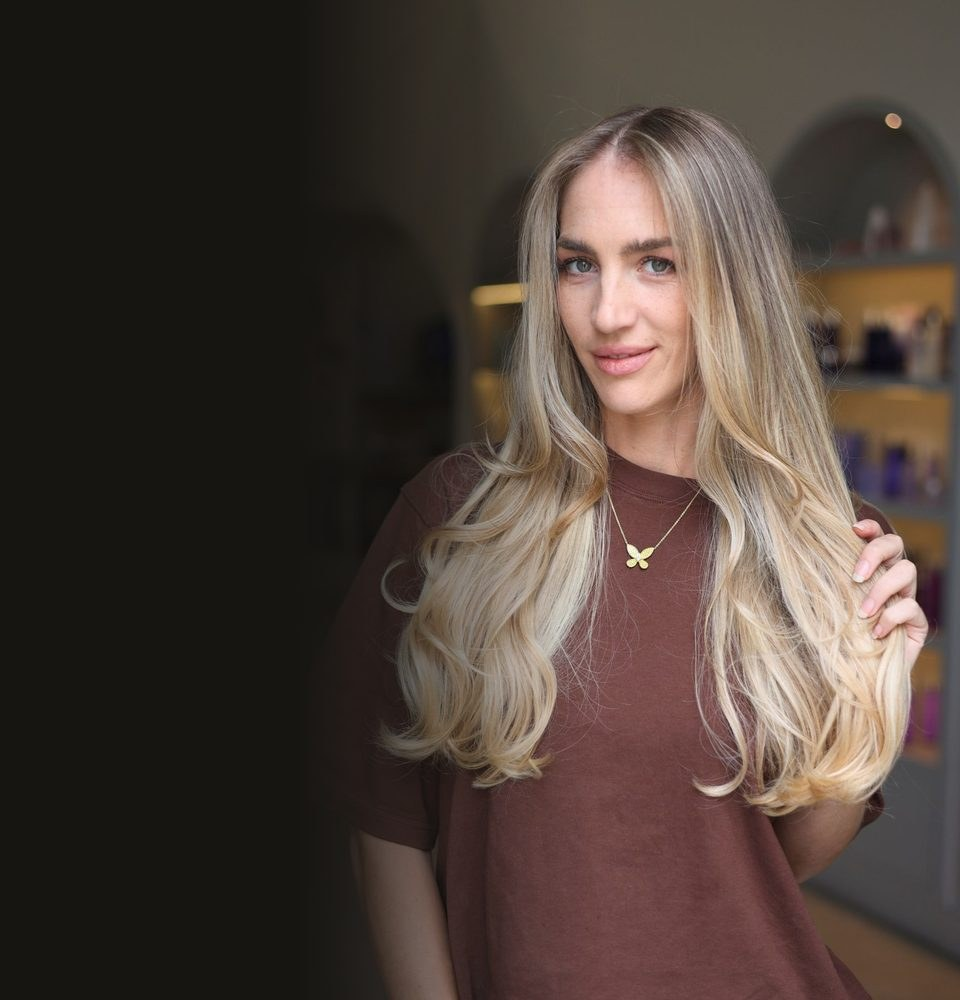
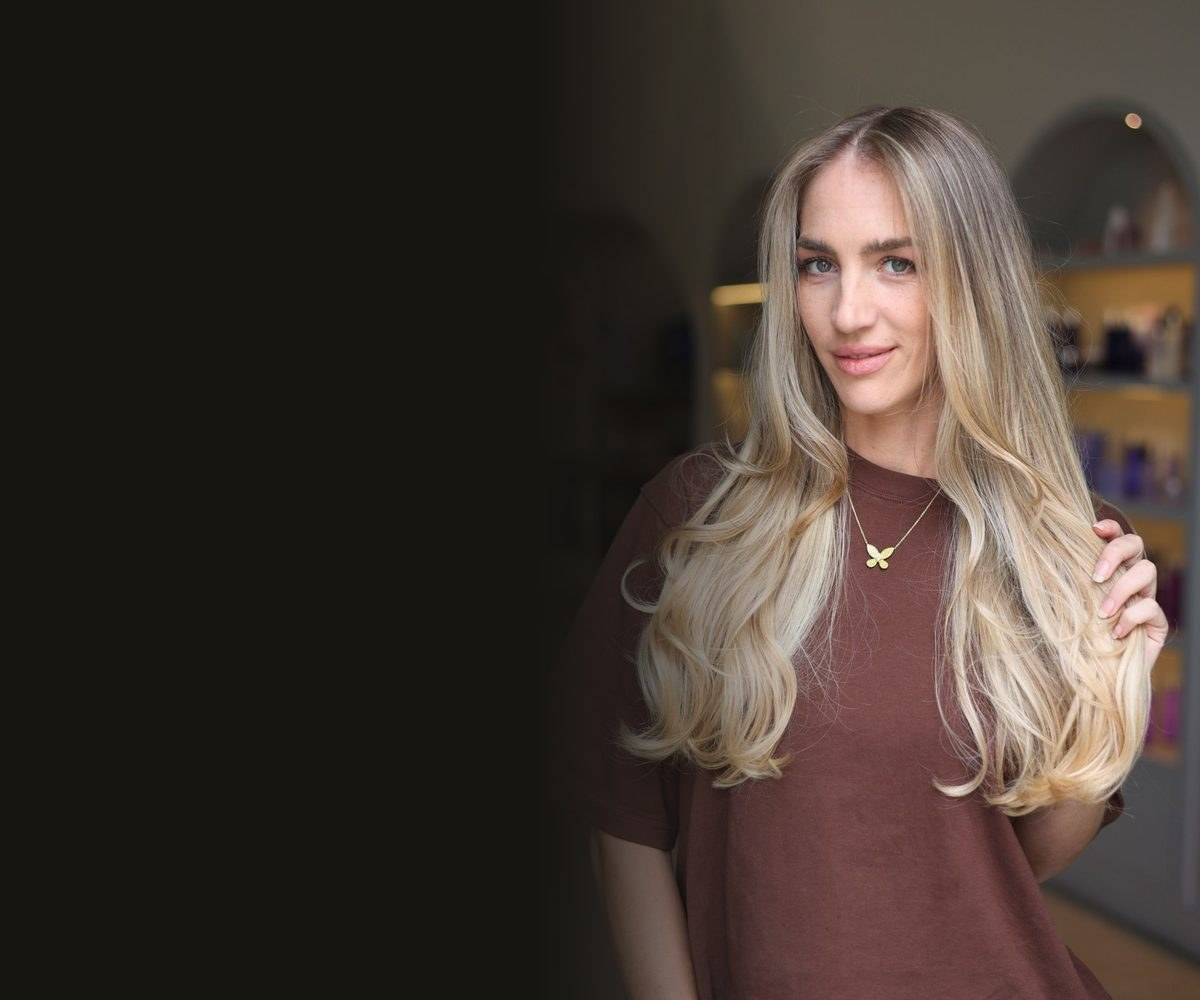
Kate, 16 Oct 2026: Blonde page, dark full-width hero with the portrait to the edge.

diff --git a/campaigns/blonde-standard/css/offers.css b/campaigns/blonde-standard/css/offers.css
@@ -186,6 +186,28 @@
 .terms-q{max-width:760px;margin:22px auto 0}
 .terms-list{margin:0;padding-left:20px;display:grid;gap:12px;font-family:var(--fb);font-size:15px;font-weight:300;line-height:1.6;color:var(--ink-soft)}
 .terms-list b{font-weight:600;color:var(--ink)}
+
+/* dark hero, full width: text left, photo fades into the dark ground on the right */
+.hero-hr.hero-photo-right{background:#161512 !important;padding:0 !important;overflow:hidden}
+.hero-hr.hero-photo-right::before{display:none !important}
+.hero-hr.hero-photo-right .wrap{display:grid;grid-template-columns:minmax(0,1.05fr) minmax(0,.95fr);align-items:stretch;gap:0;min-height:540px}
+.hero-hr.hero-photo-right .inner{margin:0;max-width:560px;text-align:left;padding:72px 0;align-self:center}
+.hero-photo-right .cta-row{justify-content:flex-start}
+.hero-photo-right .hero-photo{margin:0;min-width:0;position:relative}
+.hero-photo-right .hero-photo img{display:block;width:100%;height:100%;min-height:540px;max-height:none;aspect-ratio:auto;object-fit:cover;object-position:70% 12%;border-radius:0;background:#161512;
+  -webkit-mask-image:linear-gradient(to right,transparent 0,#000 18%);mask-image:linear-gradient(to right,transparent 0,#000 18%)}
+@media (min-width:861px){
+  .hero-hr.hero-photo-right{background:#161512 url(../assets/img/hero-blonde-portrait.jpg) right center/auto 100% no-repeat !important}
+  .hero-hr.hero-photo-right .wrap{grid-template-columns:minmax(0,1fr)}
+  .hero-photo-right .hero-photo{display:none}
+}
+@media (max-width:860px){
+  .hero-hr.hero-photo-right .wrap{grid-template-columns:minmax(0,1fr);min-height:0}
+  .hero-photo-right .hero-photo{order:-1}
+  .hero-photo-right .hero-photo img{height:340px;min-height:0;object-position:45% 8%;
+    -webkit-mask-image:linear-gradient(to bottom,#000 55%,transparent 100%);mask-image:linear-gradient(to bottom,#000 55%,transparent 100%)}
+  .hero-hr.hero-photo-right .inner{padding:8px 0 44px;max-width:none}
+}
 /* plan rows carry a small photo on the left */
 #o-plans .obody{max-width:980px}
 .ogroup .orows .door--plan{grid-template-columns:220px minmax(0,1fr) auto;column-gap:32px;padding:26px 0;grid-template-rows:auto auto auto 1fr}

diff --git a/campaigns/blonde-standard/index.html b/campaigns/blonde-standard/index.html
@@ -19,7 +19,7 @@
 <link rel="stylesheet" href="css/fonts.css">
 <link rel="stylesheet" href="css/voucher-base.css">
 <link rel="stylesheet" href="css/blonde-standard.css">
-<link rel="stylesheet" href="css/offers.css?v=12">
+<link rel="stylesheet" href="css/offers.css?v=15">
 <style>
 .draft-bar{background:#1c1b18;color:#99f6e4;text-align:center;font:600 11.5px/1.4 Inter,system-ui,sans-serif;letter-spacing:.14em;text-transform:uppercase;padding:8px 14px}
 .hero-b .lede{max-width:46ch}
@@ -65,7 +65,7 @@
 
 <main id="main">
 
-<section class="hero-c hero-hr hero-light">
+<section class="hero-c hero-hr hero-photo-right">
   <div class="wrap">
     <div class="inner">
       <span class="pill-tag"><span class="dot"></span>We set the Blonde Standard</span>
